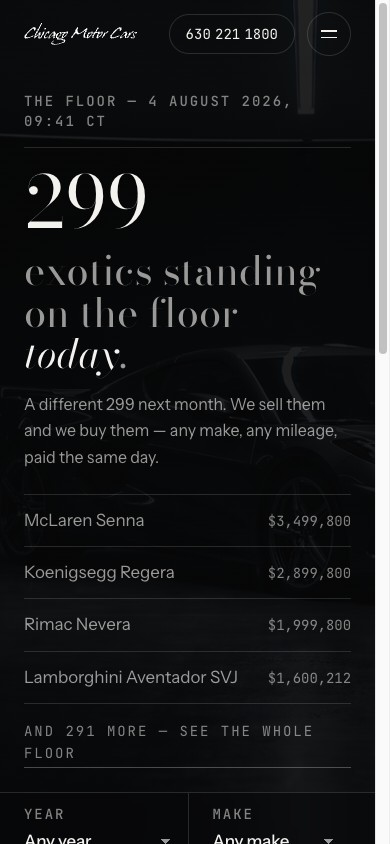
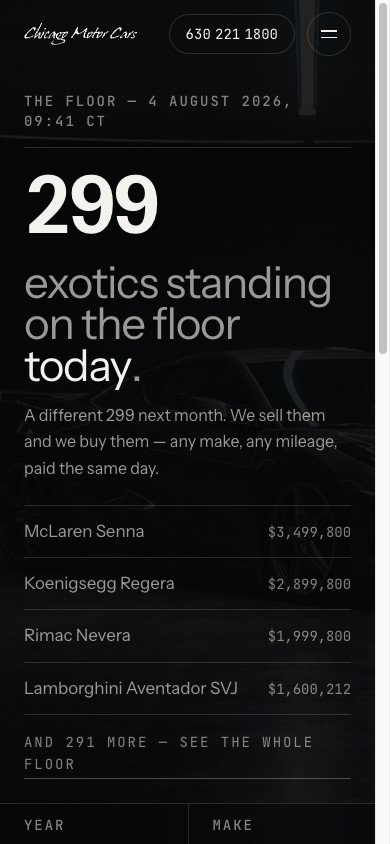
The face carries nothing; scale does
Nine pairings rejected, so the axis was wrong rather than the names.
Read the approved vault instead of inventing a tenth, and five entries
say the same thing:

  augen-pro    "Типографика почти полностью нейтральная. Характер
                создаётся не выбором интересного шрифта, а масштабом,
                прозрачностью, положением и движением"
  ruadh-com    "Никакого стандартного luxury serif. Один сдержанный
                grotesk — характер создают фотографии, crop и композиция"
  beings-co    "выразительные портреты, oversized grotesk, большие поля"
  immersive-g  "очень крупная типографика"
  trionn-com   oversized grotesk again

So the serif goes entirely and the display face is deliberately
forgettable: one restrained grotesque, two voices with the mono, and the
hierarchy built from size and weight. The count goes to 173px and the
stress word drops to 200 against 400 — four steps, the move the 360
record extracted when that client took the serifs away.

This is a named yield on the dialect's three-voice rule, and the
evidence for it is Alex's own approved entries rather than my taste.

Contrast passes at both viewports: count 15.27, claim 6.31, stress
14.33, note 6.91, roster 6.16.

diff --git a/assets/css/tokens.css b/assets/css/tokens.css
@@ -50,50 +50,54 @@
   --rule-strong: rgba(244, 242, 239, 0.28);
 
   /* ---- Type --------------------------------------------------
-     Three voices, three jobs.
-       display — the claim and the one number that matters.
-       body    — leads, UI copy, plate values. Quiet, forgettable.
-       mono    — anything factual: labels, stock, miles, VIN, counts.
+     TWO voices, and the display face is deliberately forgettable.
 
-     The inventory is catalogue content — lots, provenance, one-of-N,
-     delivery mileage, prices to $3.5M — so the display voice is the
-     printed catalogue's: a didone.
+     This is a named yield on the dialect's three-voice rule, and the
+     evidence for it is Alex's own approved vault, five entries deep:
 
-     HOW IT IS SET, and this is the whole difference between elegant
-     and ordinary. A didone wants to be LIGHT, OPEN and LARGE:
-        weight  400          never 500+, which thickens the hairlines
-        opsz    96           the display cut, not the text cut
-        tracking +0.005em    open, never the −0.03 a grotesque wants
-     Set at 600 and −0.035 it reads heavy and generic — that was the
-     earlier fault, and the family took the blame for it.
+       augen-pro (in)   "Типографика почти полностью нейтральная.
+                         Характер создаётся не выбором интересного
+                         шрифта, а масштабом, прозрачностью,
+                         положением и движением"
+       ruadh-com (in)   "Никакого стандартного luxury serif. Один
+                         сдержанный grotesk — характер создают
+                         фотографии, crop и композиция"
+       beings-co (3,in) "выразительные портреты, oversized grotesk,
+                         два контрастных цвета, большие поля"
+       immersive-g (3)  "очень крупная типографика"
+       trionn-com (in)  oversized grotesk again
 
-     Emphasis is the true italic. There is no heavier weight in play. */
-  --font-display: 'Bodoni Moda', 'Didot', 'GFS Didot', Georgia, serif;
-  --font-display-set: 'opsz' 96;
+     So the face carries nothing. Scale, position and air carry it,
+     and the effort goes there instead of into shopping for a
+     display serif. The mono stays: figures still have to scan as a
+     ledger, which proportional digits cannot do.                   */
+  --font-display: 'Instrument Sans', -apple-system, BlinkMacSystemFont, sans-serif;
   --font-body:    'Instrument Sans', -apple-system, BlinkMacSystemFont, sans-serif;
   --font-mono:    'JetBrains Mono', ui-monospace, SFMono-Regular, Menlo, monospace;
+  --font-display-set: normal;
 
   /* Scale — every size resolves here. No magic numbers.
-     14px is the floor for anything a visitor must read.         */
-  /* The didone floor is ~40px: below it the hairlines fall under a
-     device pixel and figures start losing crossbars. Both display
-     ranks clamp above it at every width.                            */
-  --t-count: clamp(4.5rem, 9.5vw, 9.5rem);   /* the live figure   */
-  --t-claim: clamp(2.5rem, 5vw, 4.75rem);    /* the hero claim    */
+     14px is the floor for anything a visitor must read.
+
+     With no serif to lean on, the scale has to do more work: the
+     display ranks go up and the gap between them widens, because the
+     hierarchy is now built out of size alone.                       */
+  --t-count: clamp(5rem, 12vw, 12rem);       /* the live figure   */
+  --t-claim: clamp(2.75rem, 5.6vw, 5.25rem); /* the hero claim    */
   --t-h1:    clamp(1.625rem, 3.2vw, 3.25rem);
   --t-lede:  clamp(1rem, 1.1vw, 1.0625rem);
   --t-body:  1rem;                            /* 16px            */
   --t-micro: 0.875rem;                        /* 14px — floor    */
 
-  --lh-display: 0.92;   /* didone at display size holds as one shape */
-  --lh-count:   0.86;
+  --lh-display: 0.94;
+  --lh-count:   0.82;
   --lh-head:    1.08;
   --lh-body:    1.6;
   --lh-label:   1.4;
 
-  --tr-micro: 0.14em;    /* uppercase mono needs the tracking    */
-  --tr-display: 0.005em; /* a didone wants open, not tight        */
-  --tr-count:   0;       /* figures at display size sit at zero    */
+  --tr-micro:   0.14em;    /* uppercase mono needs the tracking   */
+  --tr-display: -0.03em;   /* a grotesque at display wants tight  */
+  --tr-count:   -0.045em;
 
   /* ---- Space -------------------------------------------------
      4px base. Every step carries a job, because a scale without

diff --git a/assets/css/main.css b/assets/css/main.css
@@ -329,35 +329,40 @@ button, input, select { font: inherit; color: inherit; }
 
 /* The claim. The figure carries the display rank; the sentence that
    explains it drops two ranks and sits under its shoulder. */
+/* No serif to lean on: the rank is size and weight, and the stress is
+   a WEIGHT DROP rather than an italic — the move the 360 record
+   extracted when the client took the serifs away. */
 .hero__claim {
   font-family: var(--font-display);
-  font-variation-settings: var(--font-display-set);
-  font-weight: 400;
+  font-weight: 600;
   letter-spacing: var(--tr-display);
 }
 
 .hero__claim-a {
   display: block;
   font-size: var(--t-count);
-  font-weight: 400;
-  line-height: 0.86;
+  font-weight: 600;
+  line-height: var(--lh-count);
   letter-spacing: var(--tr-count);
   font-variant-numeric: tabular-nums;
 }
 
 .hero__claim-b {
   display: block;
-  margin-block-start: var(--sp-4);
+  margin-block-start: var(--sp-5);
   font-size: var(--t-claim);
-  line-height: 1.04;
+  font-weight: 400;
+  line-height: var(--lh-display);
   letter-spacing: var(--tr-display);
   color: var(--ink-2);
 }
 
-/* The italic IS the emphasis — there is no heavier weight to reach
-   for, which is the point of choosing a one-weight display face. */
+/* The stress is a weight drop, not an italic. Against 400 the 200 is
+   four steps away — nothing can be mistaken for "the same word,
+   emphasised". */
 .hero__claim em {
-  font-style: italic;
+  font-style: normal;
+  font-weight: 200;
   color: var(--ink);
 }
 
@@ -555,15 +560,14 @@ select.field__control option { background: var(--bg-raised); color: var(--ink); 
 
 .record__claim {
   font-family: var(--font-display);
-  font-variation-settings: var(--font-display-set);
-  font-size: clamp(2.125rem, 4.2vw, 4rem);
-  font-weight: 400;
-  line-height: 1.1;
+  font-size: clamp(2.125rem, 4.4vw, 4.25rem);
+  font-weight: 600;
+  line-height: 1.05;
   letter-spacing: var(--tr-display);
-  max-width: 24ch;
+  max-width: 22ch;
 }
 
-.record__claim em { font-style: italic; }
+.record__claim em { font-style: normal; font-weight: 200; }
 
 .ledger {
   display: flex;
@@ -589,9 +593,8 @@ select.field__control option { background: var(--bg-raised); color: var(--ink); 
 
 .ledger dd {
   font-family: var(--font-display);
-  font-variation-settings: var(--font-display-set);
-  font-size: clamp(2.25rem, 4.4vw, 3.75rem);
-  font-weight: 400;
+  font-size: clamp(2.25rem, 4.6vw, 4rem);
+  font-weight: 600;
   line-height: 1;
   letter-spacing: var(--tr-count);
   font-variant-numeric: tabular-nums;

diff --git a/design.html b/design.html
@@ -8,11 +8,11 @@
 
 <link rel="preconnect" href="https://fonts.googleapis.com">
 <link rel="preconnect" href="https://fonts.gstatic.com" crossorigin>
-<link href="https://fonts.googleapis.com/css2?family=Bodoni+Moda:ital,opsz,wght@0,6..96,400..500;1,6..96,400..500&family=Instrument+Sans:ital,wght@0,400..700;1,400..700&family=JetBrains+Mono:wght@400;500&display=swap" rel="stylesheet">
+<link href="https://fonts.googleapis.com/css2?family=Instrument+Sans:ital,wght@0,400..700;1,400..700&family=JetBrains+Mono:wght@400;500&display=swap" rel="stylesheet">
 
-<link rel="stylesheet" href="assets/css/tokens.css?v=12">
-<link rel="stylesheet" href="assets/css/main.css?v=13">
-<link rel="stylesheet" href="assets/css/specimen.css?v=6">
+<link rel="stylesheet" href="assets/css/tokens.css?v=13">
+<link rel="stylesheet" href="assets/css/main.css?v=14">
+<link rel="stylesheet" href="assets/css/specimen.css?v=7">
 </head>
 <body>
 

diff --git a/index.html b/index.html
@@ -8,10 +8,10 @@
 
 <link rel="preconnect" href="https://fonts.googleapis.com">
 <link rel="preconnect" href="https://fonts.gstatic.com" crossorigin>
-<link href="https://fonts.googleapis.com/css2?family=Bodoni+Moda:ital,opsz,wght@0,6..96,400..500;1,6..96,400..500&family=Instrument+Sans:ital,wght@0,400..700;1,400..700&family=JetBrains+Mono:wght@400;500&display=swap" rel="stylesheet">
+<link href="https://fonts.googleapis.com/css2?family=Instrument+Sans:ital,wght@0,400..700;1,400..700&family=JetBrains+Mono:wght@400;500&display=swap" rel="stylesheet">
 
-<link rel="stylesheet" href="assets/css/tokens.css?v=12">
-<link rel="stylesheet" href="assets/css/main.css?v=13">
+<link rel="stylesheet" href="assets/css/tokens.css?v=13">
+<link rel="stylesheet" href="assets/css/main.css?v=14">
 </head>
 <body>
 

diff --git a/assets/css/specimen.css b/assets/css/specimen.css
@@ -21,11 +21,10 @@
 
 .sheet__title {
   font-family: var(--font-display);
-  font-variation-settings: var(--font-display-set);
-  font-size: clamp(2.75rem, 6.5vw, 5.5rem);
-  font-weight: 400;
-  line-height: 0.94;
-  letter-spacing: var(--tr-display);
+  font-size: clamp(3rem, 7vw, 6rem);
+  font-weight: 600;
+  line-height: 0.9;
+  letter-spacing: var(--tr-count);
 }
 
 .sheet__stamp { color: var(--ink-3); text-align: right; }
@@ -49,9 +48,8 @@
 
 .chap__title {
   font-family: var(--font-display);
-  font-variation-settings: var(--font-display-set);
   font-size: clamp(1.75rem, 3.1vw, 2.625rem);
-  font-weight: 400;
+  font-weight: 600;
   line-height: 1.06;
   letter-spacing: var(--tr-display);
   margin-block-end: var(--sp-5);
